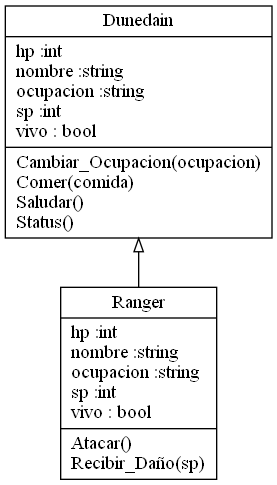
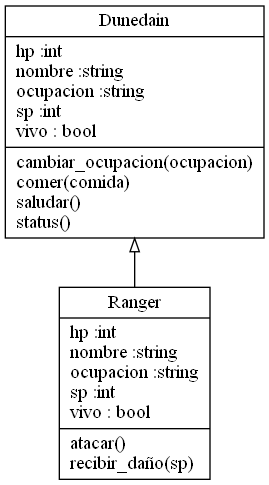
Cambios clases y diagrama

diff --git a/Ago-Dic-2020/flores-fernandez-fernando/Practicas/Practica-2/Practica-2.py b/Ago-Dic-2020/flores-fernandez-fernando/Practicas/Practica-2/Practica-2.py
@@ -6,20 +6,20 @@ class Dunedain:
         self.vivo = True
         self.sp = sp
     
-    def Saludar(self):
+    def saludar(self):
         print (f"Mae govannen mi nombre es: {self.nombre}")
     
-    def Comer(self,comida):
-        subhp=self.hp + comida
+    def comer(self,comida):
+        subhp = self.hp + comida
         print(f"Al comer tus HealtPoints subieron de: {str(self.hp)} A: {str(subhp)}")
-        self.hp=subhp 
+        self.hp = subhp 
     
-    def Cambiar_Ocupacion(self,ocupacion):
-        ocupacionco= self.ocupacion
+    def cambiar_ocupacion(self,ocupacion):
+        ocupacionco = self.ocupacion
         self.ocupacion = ocupacion 
         print(f"Tu Ocupacion cambió de: {ocupacionco} A: {self.ocupacion}")
     
-    def Status(self):
+    def status(self):
         print(f"Nombre: {self.nombre}\nOcupacion: {self.ocupacion}\nHealt Points: {str(self.hp)}\nStrike Points: {str(self.sp)}\nVivo: {str(self.vivo)}")
     
               
@@ -29,13 +29,13 @@ class Ranger(Dunedain):
         self.nombre = nombre
         self.ocupacion = ocupacion
         self.hp = hp
-        self.vivo= True 
-        self.sp=sp
+        self.vivo = True 
+        self.sp = sp
     
-    def Atacar(self):
+    def atacar(self):
         print(f"{self.nombre} Dio una estocada que infligio: {str(self.sp)} puntos de daño")
     
-    def Recibir_Daño(self,sp):
+    def recibir_daño(self,sp):
         if self.hp <= sp:
             print(f"{self.nombre} Recibió: {str(sp)} Puntos de daño\n{self.nombre} A muerto")
             self.vivo=False
@@ -49,9 +49,9 @@ d1 = Dunedain("Nan","Herrero",50,20)
 
 r1 = Ranger("Fer","Ranger",50,30)
 
-d1.Saludar()
-r1.Atacar()
-r1.Recibir_Daño(20)
-r1.Comer(20)
-r1.Recibir_Daño(80)
-r1.Status()
+d1.saludar()
+r1.atacar()
+r1.recibir_daño(20)
+r1.comer(20)
+r1.recibir_daño(80)
+r1.status()
